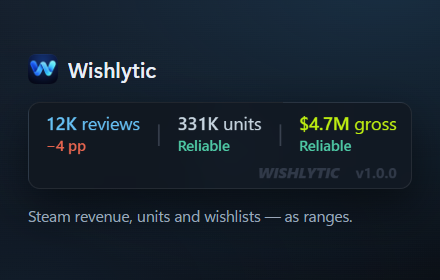
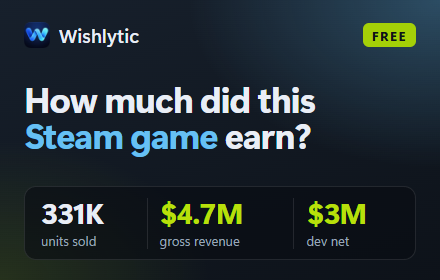
Make the small promo tile readable at the size search shows it
The store's search results show the 440 x 280 tile at about three quarters of
its size, next to tiles that are one big title. At that size the cropped pill
and the tagline were a smudge. The tile now asks the question the extension
answers in a 35px headline and gives the answer as three large figures —
units, gross and developer net from the Tactical Breach Wizards shot — with a
FREE badge in the corner.

diff --git a/screenshots/store/tiles.html b/screenshots/store/tiles.html
@@ -145,14 +145,6 @@
     box-shadow: 0 18px 44px rgba(0, 0, 0, .5);
     background-repeat: no-repeat;
   }
-  .crop.pill {
-    /* The collapsed glance row, out of the wide page shot. */
-    --k: 1.3;
-    width: calc(295px * var(--k)); height: calc(67px * var(--k));
-    background-image: url(../steam-page-wide.png);
-    background-size: calc(var(--page-w) * var(--k)) calc(var(--page-h) * var(--k));
-    background-position: calc(-425px * var(--k)) calc(-217px * var(--k));
-  }
   .crop.figures {
     /* Units and gross, cut at the divider above the net row: two blocks large
        enough to read at half size beat three that are not. */
@@ -165,11 +157,48 @@
 
   /* The two promotional tiles are their own layouts; neither is a screenshot,
      and both have to survive being shown at half size. */
-  .promo.small { padding: 26px 28px; align-content: center; }
-  .promo.small .brand { margin-bottom: 18px; gap: 10px; }
-  .promo.small .brand img { width: 30px; height: 30px; }
-  .promo.small .brand b { font-size: 21px; }
-  .promo.small .tag { margin-top: 16px; font-size: 15.5px; color: var(--muted); }
+  /*
+   * The small tile is what the store's search results show, at about 320 x 204
+   * — three quarters of its size. Next to it sit tiles that are one big title
+   * and nothing else, so this one has to be readable from across the row:
+   * a headline that says what the extension answers, and the answer itself in
+   * figures large enough to survive the reduction. The figures are the ones in
+   * released.png (Tactical Breach Wizards), so the tile shows a real readout,
+   * just set larger than the panel sets it.
+   */
+  .promo.small {
+    padding: 22px 24px 20px; display: none;
+    background:
+      radial-gradient(360px 240px at 100% 0%, rgba(102, 192, 244, .30), transparent 70%),
+      radial-gradient(300px 200px at 0% 100%, rgba(164, 208, 7, .14), transparent 70%),
+      linear-gradient(160deg, #17202c 0%, #0d1219 100%);
+  }
+  .promo.small.on { display: flex; flex-direction: column; justify-content: space-between; }
+  .promo.small .top { display: flex; align-items: center; justify-content: space-between; }
+  .promo.small .brand { margin: 0; gap: 9px; }
+  .promo.small .brand img { width: 26px; height: 26px; }
+  .promo.small .brand b { font-size: 19px; }
+  .promo.small .free {
+    font-size: 13px; font-weight: 700; letter-spacing: .12em; color: #0d1219;
+    background: #a4d007; border-radius: 6px; padding: 4px 9px 3px;
+  }
+  .promo.small h1 {
+    font-size: 35px; line-height: 1.04; font-weight: 700; letter-spacing: -.9px;
+  }
+  .promo.small h1 i { font-style: normal; color: var(--accent); }
+  .promo.small .stats {
+    display: grid; grid-template-columns: 1fr 1.25fr 1fr;
+    background: rgba(8, 12, 18, .62); border: 1px solid rgba(255, 255, 255, .10);
+    border-radius: 12px; padding: 11px 4px 10px;
+  }
+  .promo.small .stats div { padding: 0 12px; }
+  .promo.small .stats div + div { border-left: 1px solid rgba(255, 255, 255, .10); }
+  .promo.small .stats b {
+    display: block; font-family: "Segoe UI Variable Display", "Segoe UI", sans-serif;
+    font-size: 29px; line-height: 1; font-weight: 700; letter-spacing: -.6px;
+  }
+  .promo.small .stats .money { color: #b8e00a; }
+  .promo.small .stats span { display: block; margin-top: 5px; font-size: 13px; color: var(--muted); }
   .promo.marquee {
     padding: 56px 60px; grid-template-columns: 1fr auto; gap: 56px;
     align-items: center;
@@ -278,13 +307,18 @@
 </section>
 
 <section class="tile promo small" data-tile="small" data-w="440" data-h="280">
-  <div>
+  <div class="top">
     <div class="brand">
       <img src="../../icons/icon-128.png" alt="">
       <b>Wishlytic</b>
     </div>
-    <div class="crop pill"></div>
-    <div class="tag">Steam revenue, units and wishlists — as ranges.</div>
+    <div class="free">FREE</div>
+  </div>
+  <h1>How much did this<br><i>Steam game</i> earn?</h1>
+  <div class="stats">
+    <div><b>331K</b><span>units sold</span></div>
+    <div><b class="money">$4.7M</b><span>gross revenue</span></div>
+    <div><b class="money">$3M</b><span>dev net</span></div>
   </div>
 </section>
 
